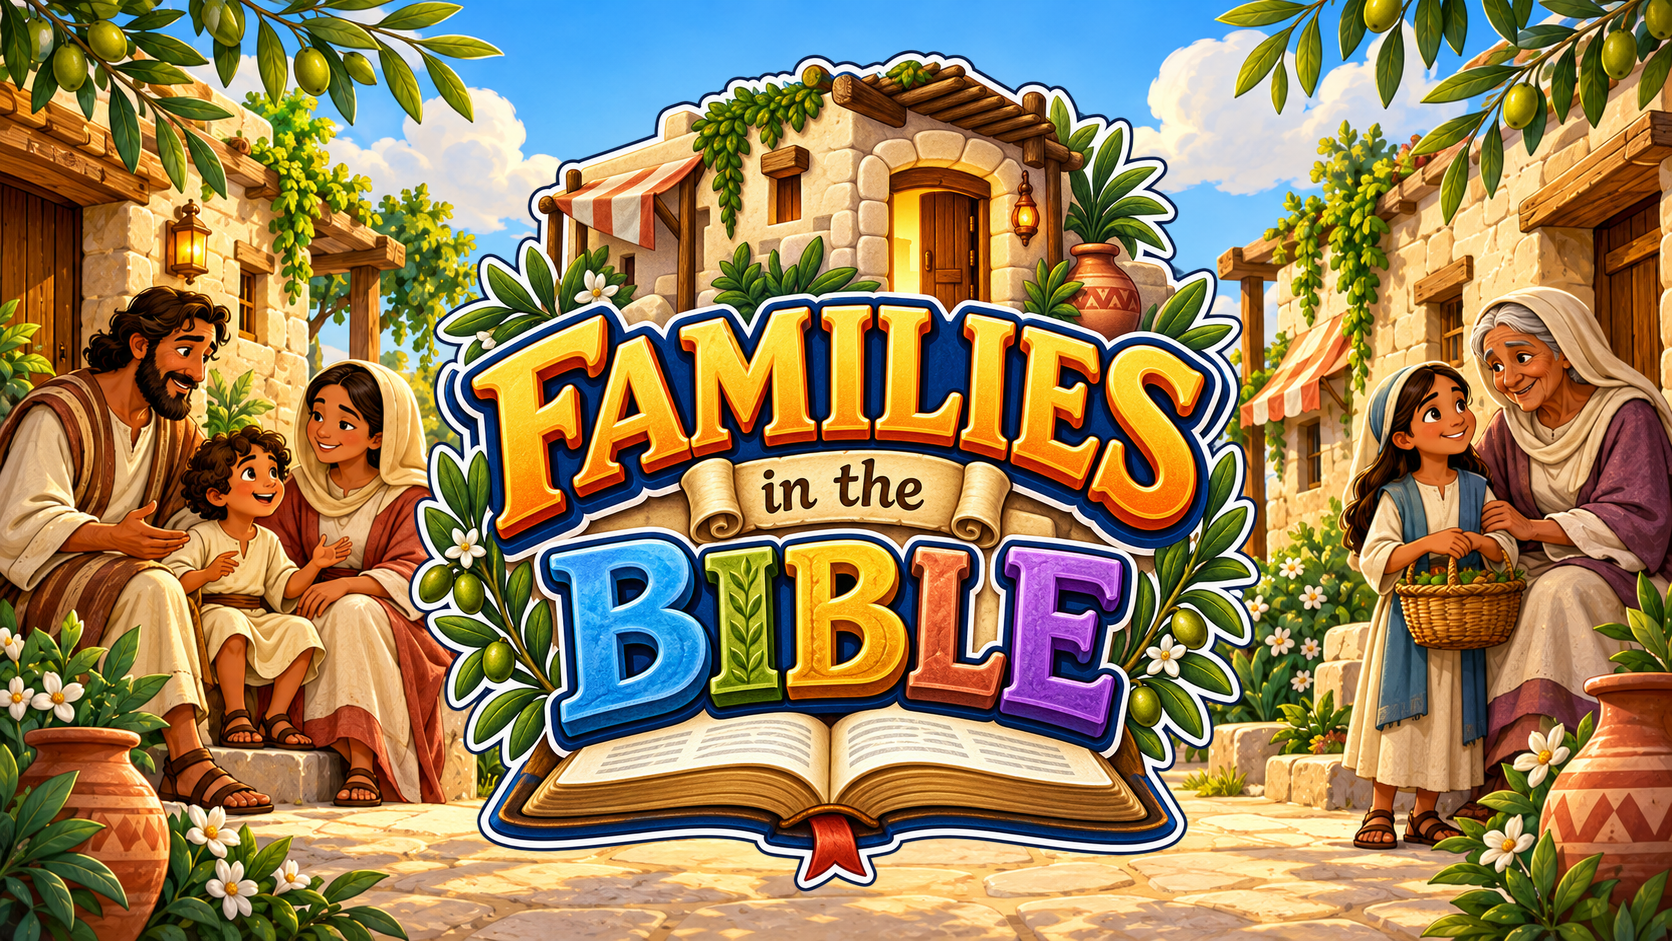
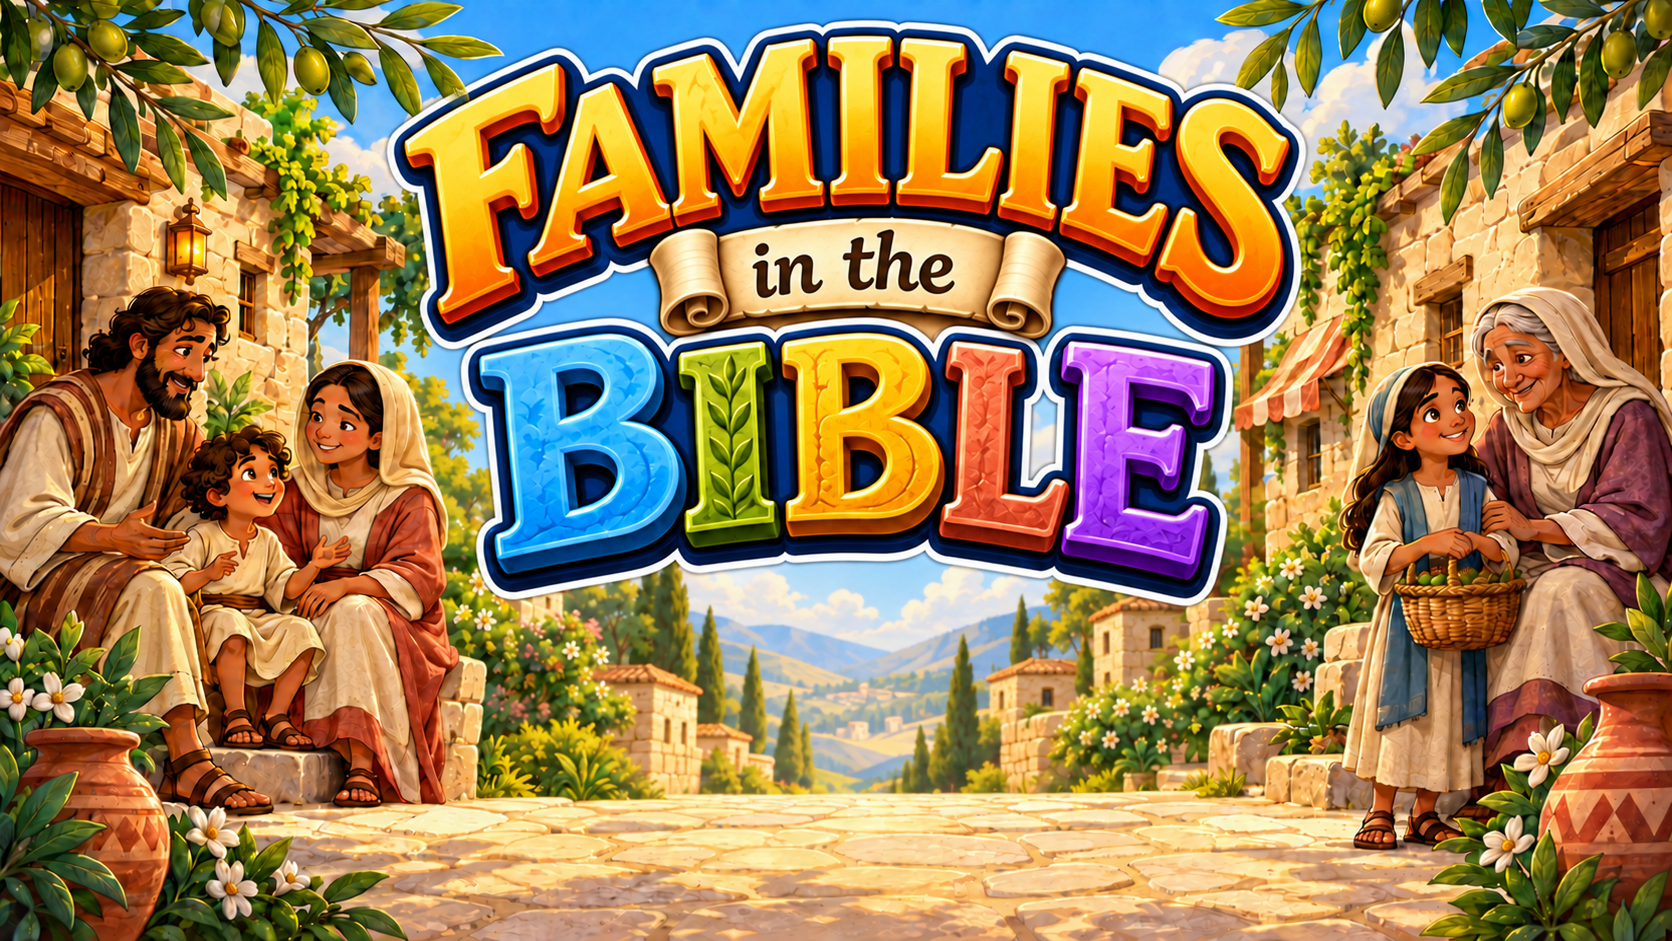
Moses

diff --git a/Series/Families in the Bible/01 Everyone Has a Part/lesson-outline.md b/Series/Families in the Bible/01 Everyone Has a Part/lesson-outline.md
@@ -1,0 +1,127 @@
+# A Little Girl with a Big Part
+
+## Lesson Brief
+
+- **Series:** Families in the Bible
+- **Subject/Theme:** God works through the faith of parents and the willing help of children.
+- **Bible Focus:** Amram and Jochebed protect Moses, Miriam helps bring him home, and Moses later chooses to serve God.
+- **Main Passage:** Exodus 1:1-2:10; Hebrews 11:23-29. Background: Genesis 45:5-11; 46:1-7. Closing overview: Exodus 2:11-3:12; 12:37-42; 14; Deuteronomy 34:1-9.
+- **Main Point:** God can use you now, so learn His Word and do the part He gives you with a willing heart.
+- **Teaching Aim:** Each child will choose one way to help at home or obey a Bible truth this week.
+- **Teaching Pace:** Keep the Egypt backstory brief. Spend most of the story time at the riverbank and on Miriam's offer. Give Moses' later life as a short closing overview.
+- **Family Names:** Amram and Jochebed were the parents of Moses, Aaron, and Miriam (Exodus 6:20; Numbers 26:59). Aaron was three years older than Moses (Exodus 7:7). Miriam's exact age is not given.
+- **Teacher Preparation:** Read [Exodus 2](https://biblehub.com/kjvs/exodus/2.htm), [Genesis 46](https://biblehub.com/kjv/genesis/46.htm), [Acts 7](https://biblehub.com/kjv/acts/7.htm), and [Hebrews 11](https://biblehub.com/kjv/hebrews/11.htm) in the KJV. Moses was hidden for three months. The basket was placed among reeds at the riverbank, where his sister watched. Patrols and encounters with boats or animals are outside the recorded account. Build suspense through the king's command and the princess discovering a Hebrew baby. Describe imagined feelings as possibilities. Jochebed's exact lessons and Moses' palace curriculum are also unrecorded; distinguish those inferences from the facts below.
+
+## Memory Verse
+
+**Ephesians 4:32 (KJV)**
+
+> And be ye kind one to another, tenderhearted, forgiving one another, even as God for Christ's sake hath forgiven you.
+
+## Lesson Outline
+
+### 1. A Family Becomes a Nation in Egypt
+
+A brief background:
+- Joseph brought his family to Egypt to save them from a fame
+- They stayed in Egypt instead of going home to Israel
+- They grew in great number
+- Pharoah turned them into slaves
+- To keep them from rebelling, he started killing all baby boys
+
+> Exodus 1:22
+And Pharaoh charged all his people, saying, Every son that is born ye shall cast into the river, and every daughter ye shall save alive.
+
+Pharaoh commanded all his people to cast every newborn Hebrew boy into the river. That means every person who finds, sees, hears a baby boy, was to take the baby and throw them in the river. Can you imagine?
+- Imagine finding a baby. You now had to decide if you were going to kill the baby, or disobey and risk being killed yourself!
+- Imagine having a baby brother, knowing at any time someone could find him and take him and throw him in the river!
+- Imagine being a parent, have a sweet baby that you love so much, worried that anyone could find him and kill him!
+
+### 2. Amram and Jochebed Trust God with Their Baby
+
+> **Exodus 2:1-3**
+> And there went a man of the house of Levi, and took to wife a daughter of Levi. And the woman conceived, and bare a son: and when she saw him that he was a goodly child, she hid him three months. And when she could not longer hide him, she took for him an ark of bulrushes, and daubed it with slime and with pitch, and put the child therein; and she laid it in the flags by the river’s brink.
+
+**Summary/Lesson:** Amram and Jochebed had a baby boy. For three months they hid him. Babies need care through the day and night, and a parent cannot simply tell an infant to stay quiet. The Bible says they reached the point when they could hide him no longer. We are not told exactly what changed. Hebrews explains what guided their choice: faith in God was stronger than the king's command:
+
+> **Hebrews 11:23**
+> By faith Moses, when he was born, was hid three months of his parents, because they saw he was a proper child; and they were not afraid of the king’s commandment.
+
+Jochebed made an ark of bulrushes, a small basket made from reeds. She coated it with slime and pitch to keep water out, placed Moses inside, and laid it among the reeds at the river's edge.
+
+> Let the children picture her lowering the basket into its place. A small baby was now outside the house, near the water, under a law that threatened his life. His mother had taken care to protect him, yet she could not control what would happen next. His sister watched from a distance.
+
+> **Psalms 56:3**
+> What time I am afraid, I will trust in thee.
+
+### 3. Miriam Watches as the Princess Finds the Basket
+
+> **Exodus 2:4-6**
+> And his sister stood afar off, to wit what would be done to him. And the daughter of Pharaoh came down to wash herself at the river; and her maidens walked along by the river’s side; and when she saw the ark among the flags, she sent her maid to fetch it. And when she had opened it, she saw the child: and, behold, the babe wept. And she had compassion on him, and said, This is one of the Hebrews’ children.
+
+**Summary/Lesson:** His sister, Miriam, stood far enough away to watch what would happen. She had a part she could do: she could pay attention. Then Pharaoh's daughter came down to wash in the river while her maidens walked beside her. The princess saw the basket in the reeds and sent her maid to get it.
+
+The basket was being opened by someone from the king's own family. What would she do when she saw the baby? Being the very daughter of Pharoah, it was her duty to kill the baby. But God works in the hearts of even the most powerful people. Remember, Miriam was watching afar off. Imagine what was going on in her mind: "Oh no! The princess has him! Surely she will kill him!"
+
+But when the princess saw Moses, he cried, and she had compassion on him. She knew he was a Hebrew child. She knew what she was supposed to do, but she decided to save the baby
+
+### 4. A Child Speaks Up, and Moses Goes Home
+
+**Summary/Lesson:** God was leading Miriam to do something. She could see that the princess was going to save the baby, but she also knew that the princess wasn't going to take care of the baby. She didn't have the time, and probably didn't want to either. Miriam had a chance to go to the princess and say something. Of all the things she could say or do, what do you think it would be?
+
+> **Exodus 2:7-9**
+> Then said his sister to Pharaoh’s daughter, Shall I go and call to thee a nurse of the Hebrew women, that she may nurse the child for thee? And Pharaoh’s daughter said to her, Go. And the maid went and called the child’s mother. And Pharaoh’s daughter said unto her, Take this child away, and nurse it for me, and I will give thee thy wages. And the woman took the child, and nursed it.
+
+She decided to offer to find a Hebrew woman who could care for and raise the baby. The princess agreed. Who do you think Miriam took the baby to? Her own mother! Not only would Moses live, but Jochabed would be able to keep him, at least for a while. And not only would she get to keep him, but she was going to be paid to do it!
+
+Pharaoh's daughter placed Moses in his mother's care and promised to pay her. Miriam's watchful attention and timely words mattered. God used a little girl from an unprivileged family to change the life of her brother, the life of her mother, and the future of an entire nation. Image the joy on Jochabed's face when Miriam brought the baby home under the protection of royal guards!
+
+### 5. Truth Learned at Home Can Stay for Life
+
+> **Exodus 2:10**
+> And the child grew, and she brought him unto Pharaoh’s daughter, and he became her son. And she called his name Moses: and she said, Because I drew him out of the water.
+
+**Summary/Lesson:** Jochebed cared for Moses until the time came to bring him to Pharaoh's daughter. We don't know how old he was. We don't know how long she had Moses for. Her time was short and she knew she had to teach him wisely to stay true to God when he returned to the palace.
+
+Jochabed didn't have this Bible verse yet, but she sure did trust in it:
+
+> Proverbs 22:6
+Train up a child in the way he should go: and when he is old, he will not depart from it.
+
+Moses was going to leave a home that worshipped and obeyed God to live with people who delighted in sin and worshipped evil, fake gods. But Jochabed knew that God had a plan for Moses. Moses was going to do something great for God. She just didn't know what yet.
+
+### 6. Moses Chooses God in a Different World
+
+> **Acts 7:22**
+> And Moses was learned in all the wisdom of the Egyptians, and was mighty in words and in deeds.
+
+**Summary/Lesson:** Moses became the son of Pharaoh's daughter. And we see that he learned the wisdom of the Egyptians. His life now included the royal household and an education shaped by Egypt. The nation worshipped false gods, and taught many things against God's Word.
+
+> **Hebrews 11:24-26**
+> By faith Moses, when he was come to years, refused to be called the son of Pharaoh’s daughter; Choosing rather to suffer affliction with the people of God, than to enjoy the pleasures of sin for a season; Esteeming the reproach of Christ greater riches than the treasures in Egypt: for he had respect unto the recompence of the reward.
+
+As Moses grew up, he remembered what his parents taught him. He could have chosen the riches, pleasures, power, and fame that came with being an Egyption prince, but instead, he chose to identify with God's people even though they were just slaves. The comforts and standing of the royal household could not give him the peace of obeying God. This does not mean every decision Moses made was right. Moses was a sinner too, but his heart was after God, not after the world.
+
+### 7. God Uses the Baby Who Was Protected
+
+**Summary/Lesson:** Moses would grow up to save the Hebrews from slavery. They would escape Egypt and God would use Moses to escape their great army, cross a sea, and face many mighty enemies as they travelled to the land that God had promised them. God had great plans for Moses, but they all started with a mother, father, and sister, who stuck together and made brave decisions to obey God instead of giving in to an evil king.
+
+## Segue Into The Plan Of Salvation
+
+Moses needed rescue when he was a helpless baby. Years later, God used him to lead Israel out of slavery. Those were real rescues from danger. The Bible also tells us that every one of us needs Jesus to save us from sin.
+
+Sin is the wrong we do against God. Romans 3:23 tells us that everyone has sinned. We have disobeyed, lied, or treated someone cruelly. God is holy, and sin deserves His judgment. Helping at home cannot erase that sin. Being raised by faithful parents cannot give us their faith as our own.
+
+God loves us and sent His Son, Jesus Christ. Jesus lived without sin, died for our sins, and rose again, as 1 Corinthians 15:3-4 teaches. Ephesians 2:8-9 explains that salvation is God's gift, received through faith. You can turn to Jesus and trust Him to save you. Acts 16:31 calls us to believe on the Lord Jesus Christ.
+
+If you want to understand how to trust Jesus, speak with a teacher after the lesson. Those who already belong to Him can ask for help to serve Him willingly this week. Our service grows from His love and the new life He gives us.
+
+## Main Applications For The Kids
+
+- Ask God for courage when doing right feels hard.
+- Pay attention when someone needs help, and involve a trusted adult when the situation needs one.
+- Learn God's Word from those who teach it faithfully, then put it into practice.
+- Follow God's truth when friends pressure you to do wrong.
+- Choose one way to help your family or someone at church this week.
+- Trust Jesus personally for salvation.
+

diff --git a/Series/Families in the Bible/series-image-style.md b/Series/Families in the Bible/series-image-style.md
@@ -11,7 +11,7 @@
 - **Palette:** warm golden orange, cream, sky blue, olive green, terracotta, purple, and deep navy
 - **Lettering:** large beveled golden-orange main words; smaller dark lettering on a cream parchment ribbon; individually colored dimensional block letters for BIBLE and CHURCH. All lettering is rendered by imagegen.
 - **Motifs:** welcoming stone homes, olive branches, an open Bible, clay jars, flowers, and a sunlit courtyard
-- **Cover composition:** the exact series logo is centered over a courtyard scene, with a family at the left and a grandmother with a girl at the right. These are general family illustrations rather than named Bible characters.
+- **Cover composition:** the enlarged graphical title lettering is centered high in the sky over a courtyard scene, with a family at the left and a grandmother with a girl at the right. These are general family illustrations rather than named Bible characters.
 - **Church cover composition:** BETHEL BAPTIST above a ribbon reading Jr, with CHURCH below, set in the same courtyard world
 - **Lighting and mood:** warm sunlight, cheerful family interactions, and a peaceful welcoming atmosphere
 - **Presentation background pattern:** broad pale cream and light blue center for dark slide text; homes and foliage stay near the edges. No embedded text or logo.
@@ -20,7 +20,7 @@
 
 ## Generation Record
 
-Created September 12, 2026 with the built-in imagegen tool. Each output was visually inspected. The logo's transparent alpha channel and all image dimensions were checked. The series cover uses the generated logo file as a proportional overlay; no lettering was drawn by a script.
+Created September 12, 2026 with the built-in imagegen tool. Each output was visually inspected. The logo's transparent alpha channel and all image dimensions were checked. The series cover was revised with built-in imagegen to use only the graphical title lettering. The full logo remains a separate asset. No lettering was drawn by a script.
 
 ### Prompt Set
 
@@ -30,3 +30,11 @@ Created September 12, 2026 with the built-in imagegen tool. Each output was visu
 - **Church cover:** Use the Adventures church cover as the wording and layout reference, with the family logo and courtyard background as style references. Render BETHEL BAPTIST in golden-orange dimensional letters above Jr on a cream ribbon and CHURCH in colorful block letters. Keep navy depth and white outlines, safe margins, and the peaceful home setting.
 
 The prompts specified PNG output, readable exact wording, and no extra text. Source generations remain in the imagegen output folder; the four final assets are saved beside this file.
+
+### Cover Revision Prompt
+
+Use case: precise-object-edit. Edit the provided 16:9 series cover. Replace the central full emblem with ONLY the graphical title lettering "FAMILIES" / "in the" / "BIBLE". Remove the emblem’s house above the lettering, its surrounding olive branches, and its open book below the lettering. Restore the peaceful courtyard and pale blue warm sky behind those removed emblem parts. Keep the title’s exact current spelling, golden-orange beveled FAMILIES letters, cream parchment ribbon containing in the, individual blue green gold terracotta purple BIBLE letters, navy depth and white sticker outlines. The parchment ribbon belongs to the wordmark and stays. Make this text-only wordmark prominent, balanced and centered, occupying about 60 percent of image width with comfortable sky above and courtyard below. Preserve the background family members on both sides, their faces and clothing, the stone homes, corner foliage and flowers, warm lighting, painted style and 16:9 composition. No extra text, no book or house attached to the wordmark, no new props. Output PNG.
+
+### Title Placement Revision
+
+Built-in imagegen raised the title into the sky and enlarged it slightly. The final adjustment prompt requested a 12 percent enlargement around the top center, preserving the raised position, exact wording, letter colors, ribbon, family members, and courtyard. The final 1672 × 941 PNG was visually inspected.

diff --git a/Series/Families in the Bible/series-plan.md b/Series/Families in the Bible/series-plan.md
@@ -10,7 +10,7 @@ Some lessons show how sin harms a household. Others show how God works through f
 
 ## Possible Lessons
 
-These stories are options for the series. Lesson selection and teaching order remain open. No dates or weeks are assigned.
+The first selected lesson is [A Little Girl with a Big Part](01%20Everyone%20Has%20a%20Part/lesson-outline.md), about Moses' family. The remaining stories are options, with selection and teaching order still open. No dates or weeks are assigned.
 
 | Family | Working Lesson Title | Passage References | Brief Synopsis and Lesson Focus |
 | --- | --- | --- | --- |
@@ -28,7 +28,7 @@ These stories are options for the series. Lesson selection and teaching order re
 | Hannah, Elkanah, and Samuel | Praying and Keeping a Promise | 1 Samuel 1; 2:18-21 | Hannah brings her sorrow to God and asks for a son. After Samuel is born, she keeps her promise and brings him to serve the Lord. Teach children to pray about their needs and keep the promises they make to God. |
 | Zechariah, Elizabeth, and John the Baptist | Following God's Purpose | Luke 1:5-25, 57-80 | God promises a son who will prepare people for the Lord. Elizabeth and Zechariah follow God's instruction to name him John, even when relatives expect a family name. Teach children to follow God's direction when people around them expect a different choice. |
 | Esau and Jacob | Forgiving Family Hurts | Genesis 32-33, especially 33:1-11 | Years after Jacob steals the blessing, he fears meeting Esau again. Esau runs to meet him and embraces him. Explore forgiveness after deep family hurt and the steps we can take toward making peace. |
-| Amram, Jochebed, Miriam, and Moses | Everyone Has a Part | Exodus 2:1-10; 6:20; Hebrews 11:23 | Moses' parents protect him by faith. His mother places him in a basket among the reeds, and his sister watches nearby. When Pharaoh's daughter finds him, Miriam offers to find a nurse and brings his mother. Show how family members can work together and how a child's help can make a difference. |
+| Amram, Jochebed, Miriam, and Moses | A Little Girl with a Big Part | Exodus 2:1-10; 6:20; Hebrews 11:23 | Moses' parents protect him by faith. His mother places him in a basket among the reeds, and his sister watches nearby. When Pharaoh's daughter finds him, Miriam offers to find a nurse and brings his mother. Show how family members can work together and how a child's help can make a difference. |
 | The Father and His Two Sons (The Prodigal Son) | Coming Home and Welcoming Back | Luke 15:11-32 | In Jesus' parable, a son wastes his inheritance and returns home ready to confess his sin. His father welcomes him with compassion, while his older brother resents the celebration. Teach repentance and the father's mercy, then consider how we respond when a family member admits wrong and receives forgiveness. |
 
 ## Notes for Developing Lessons
